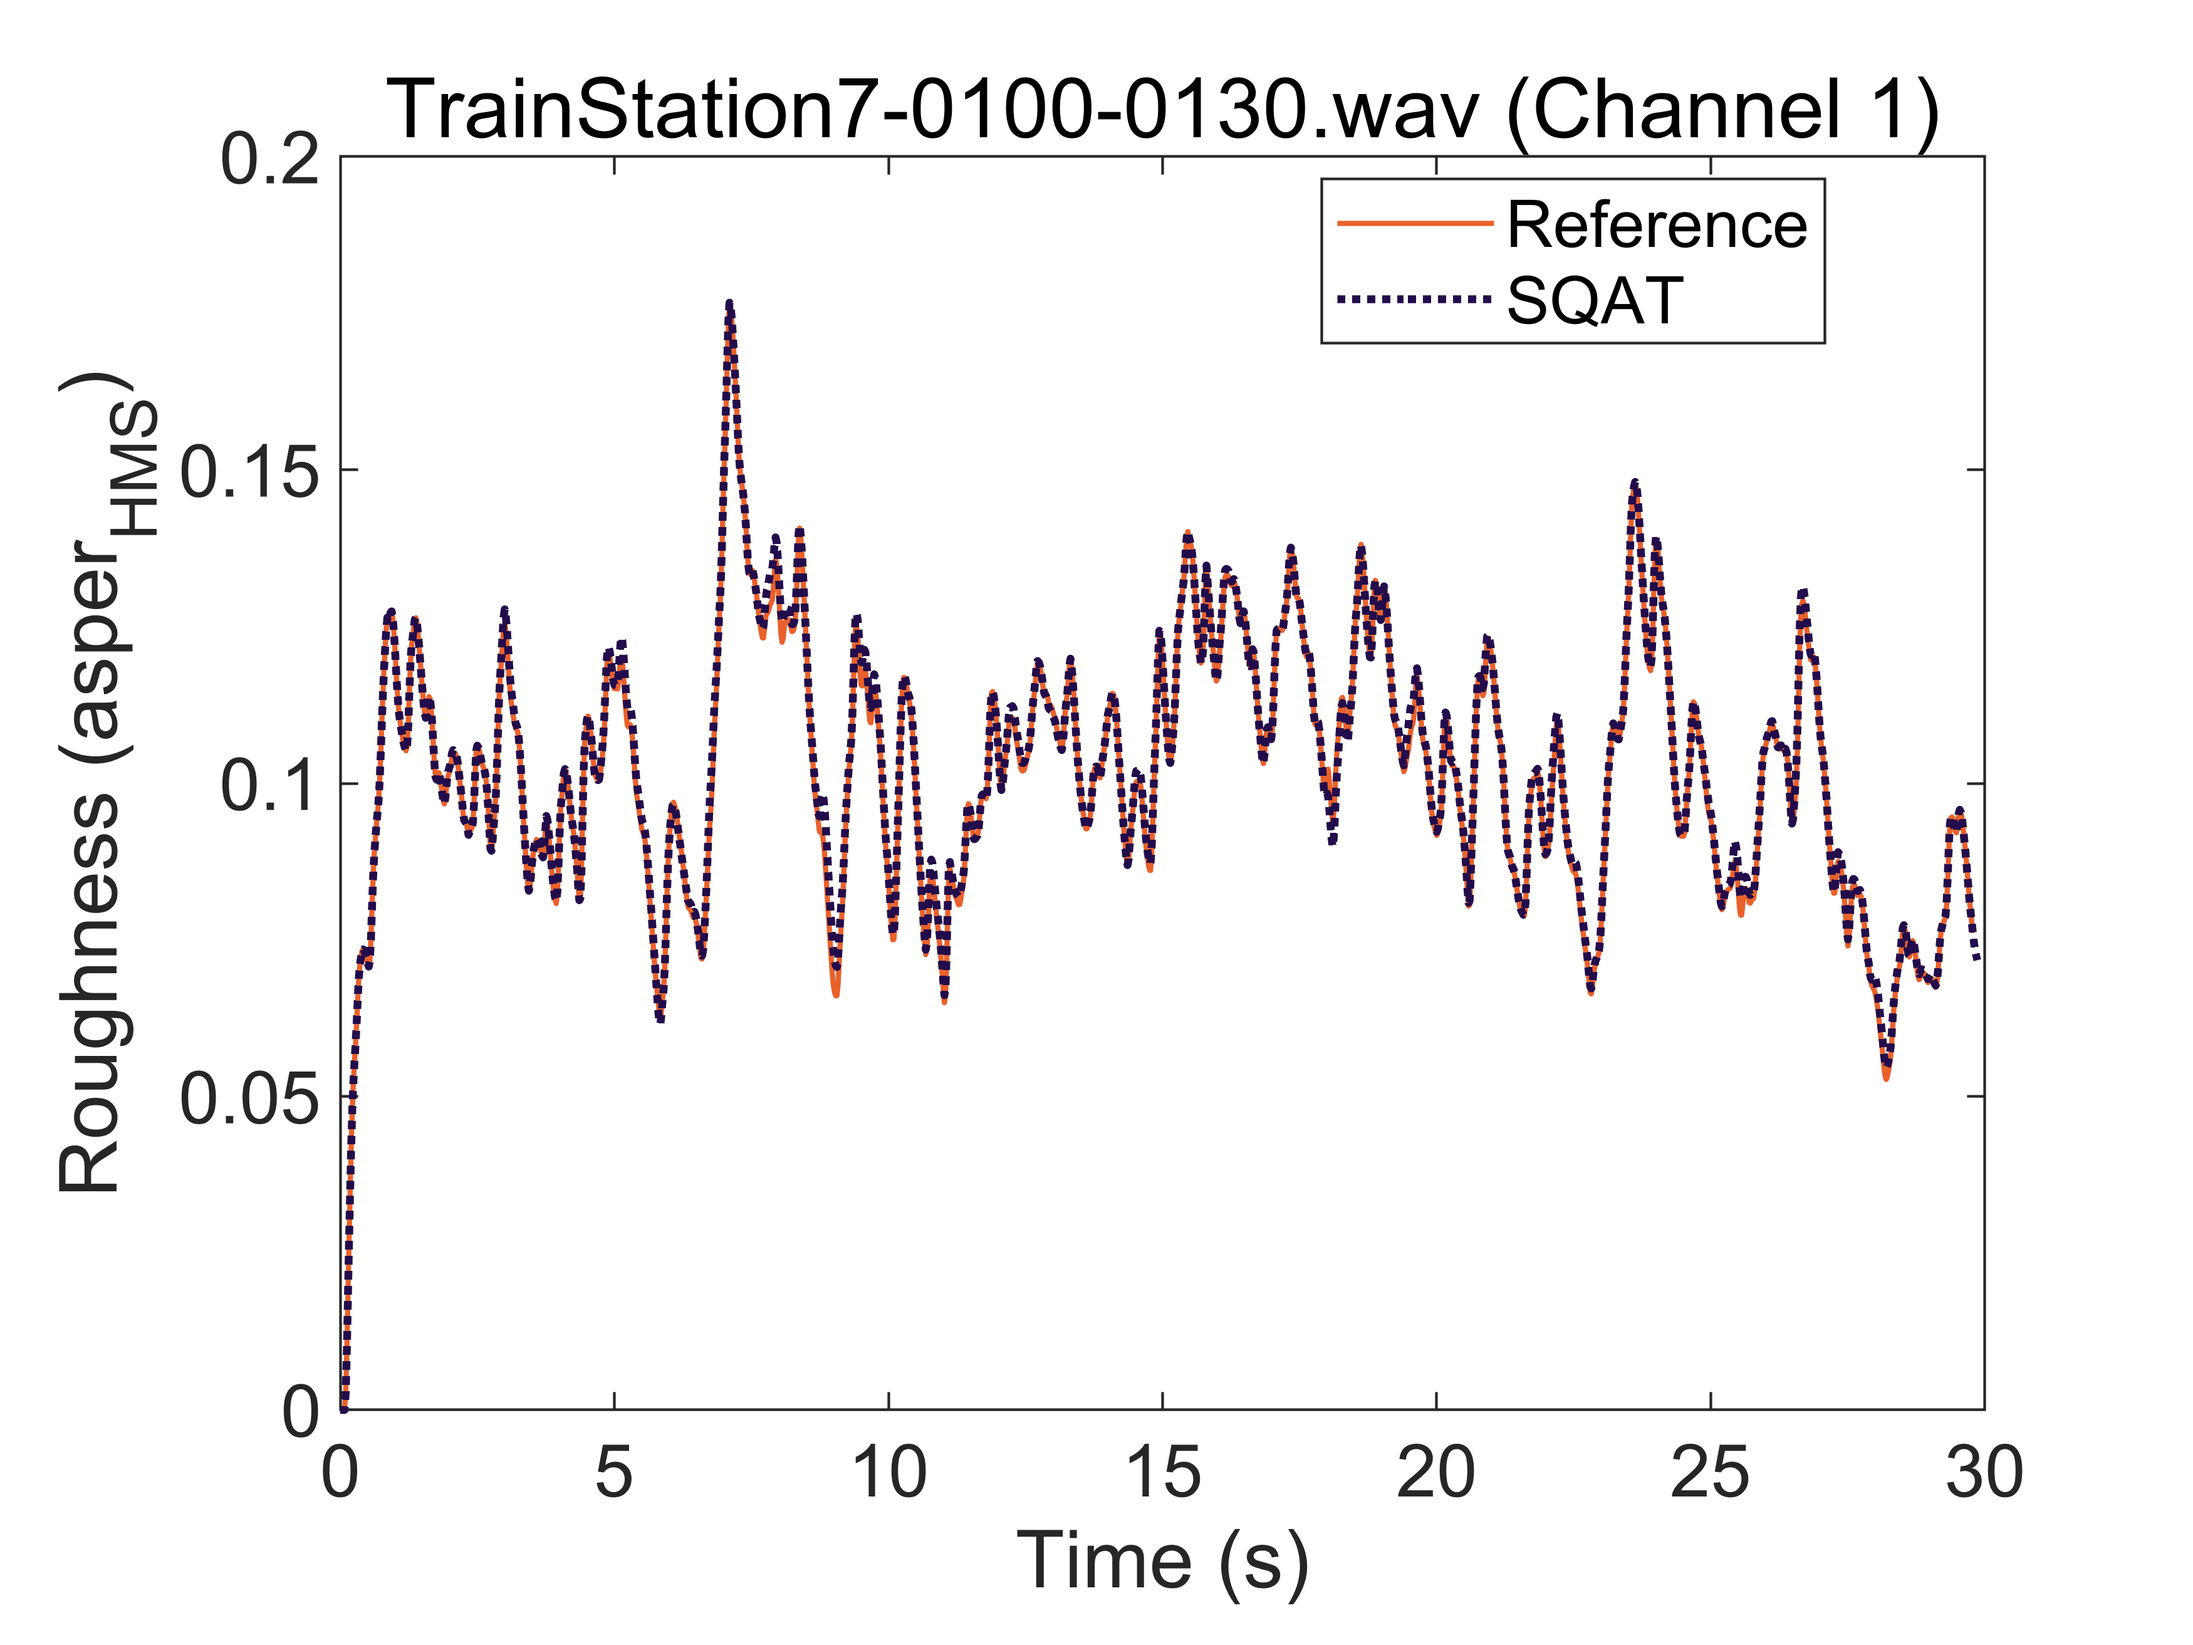
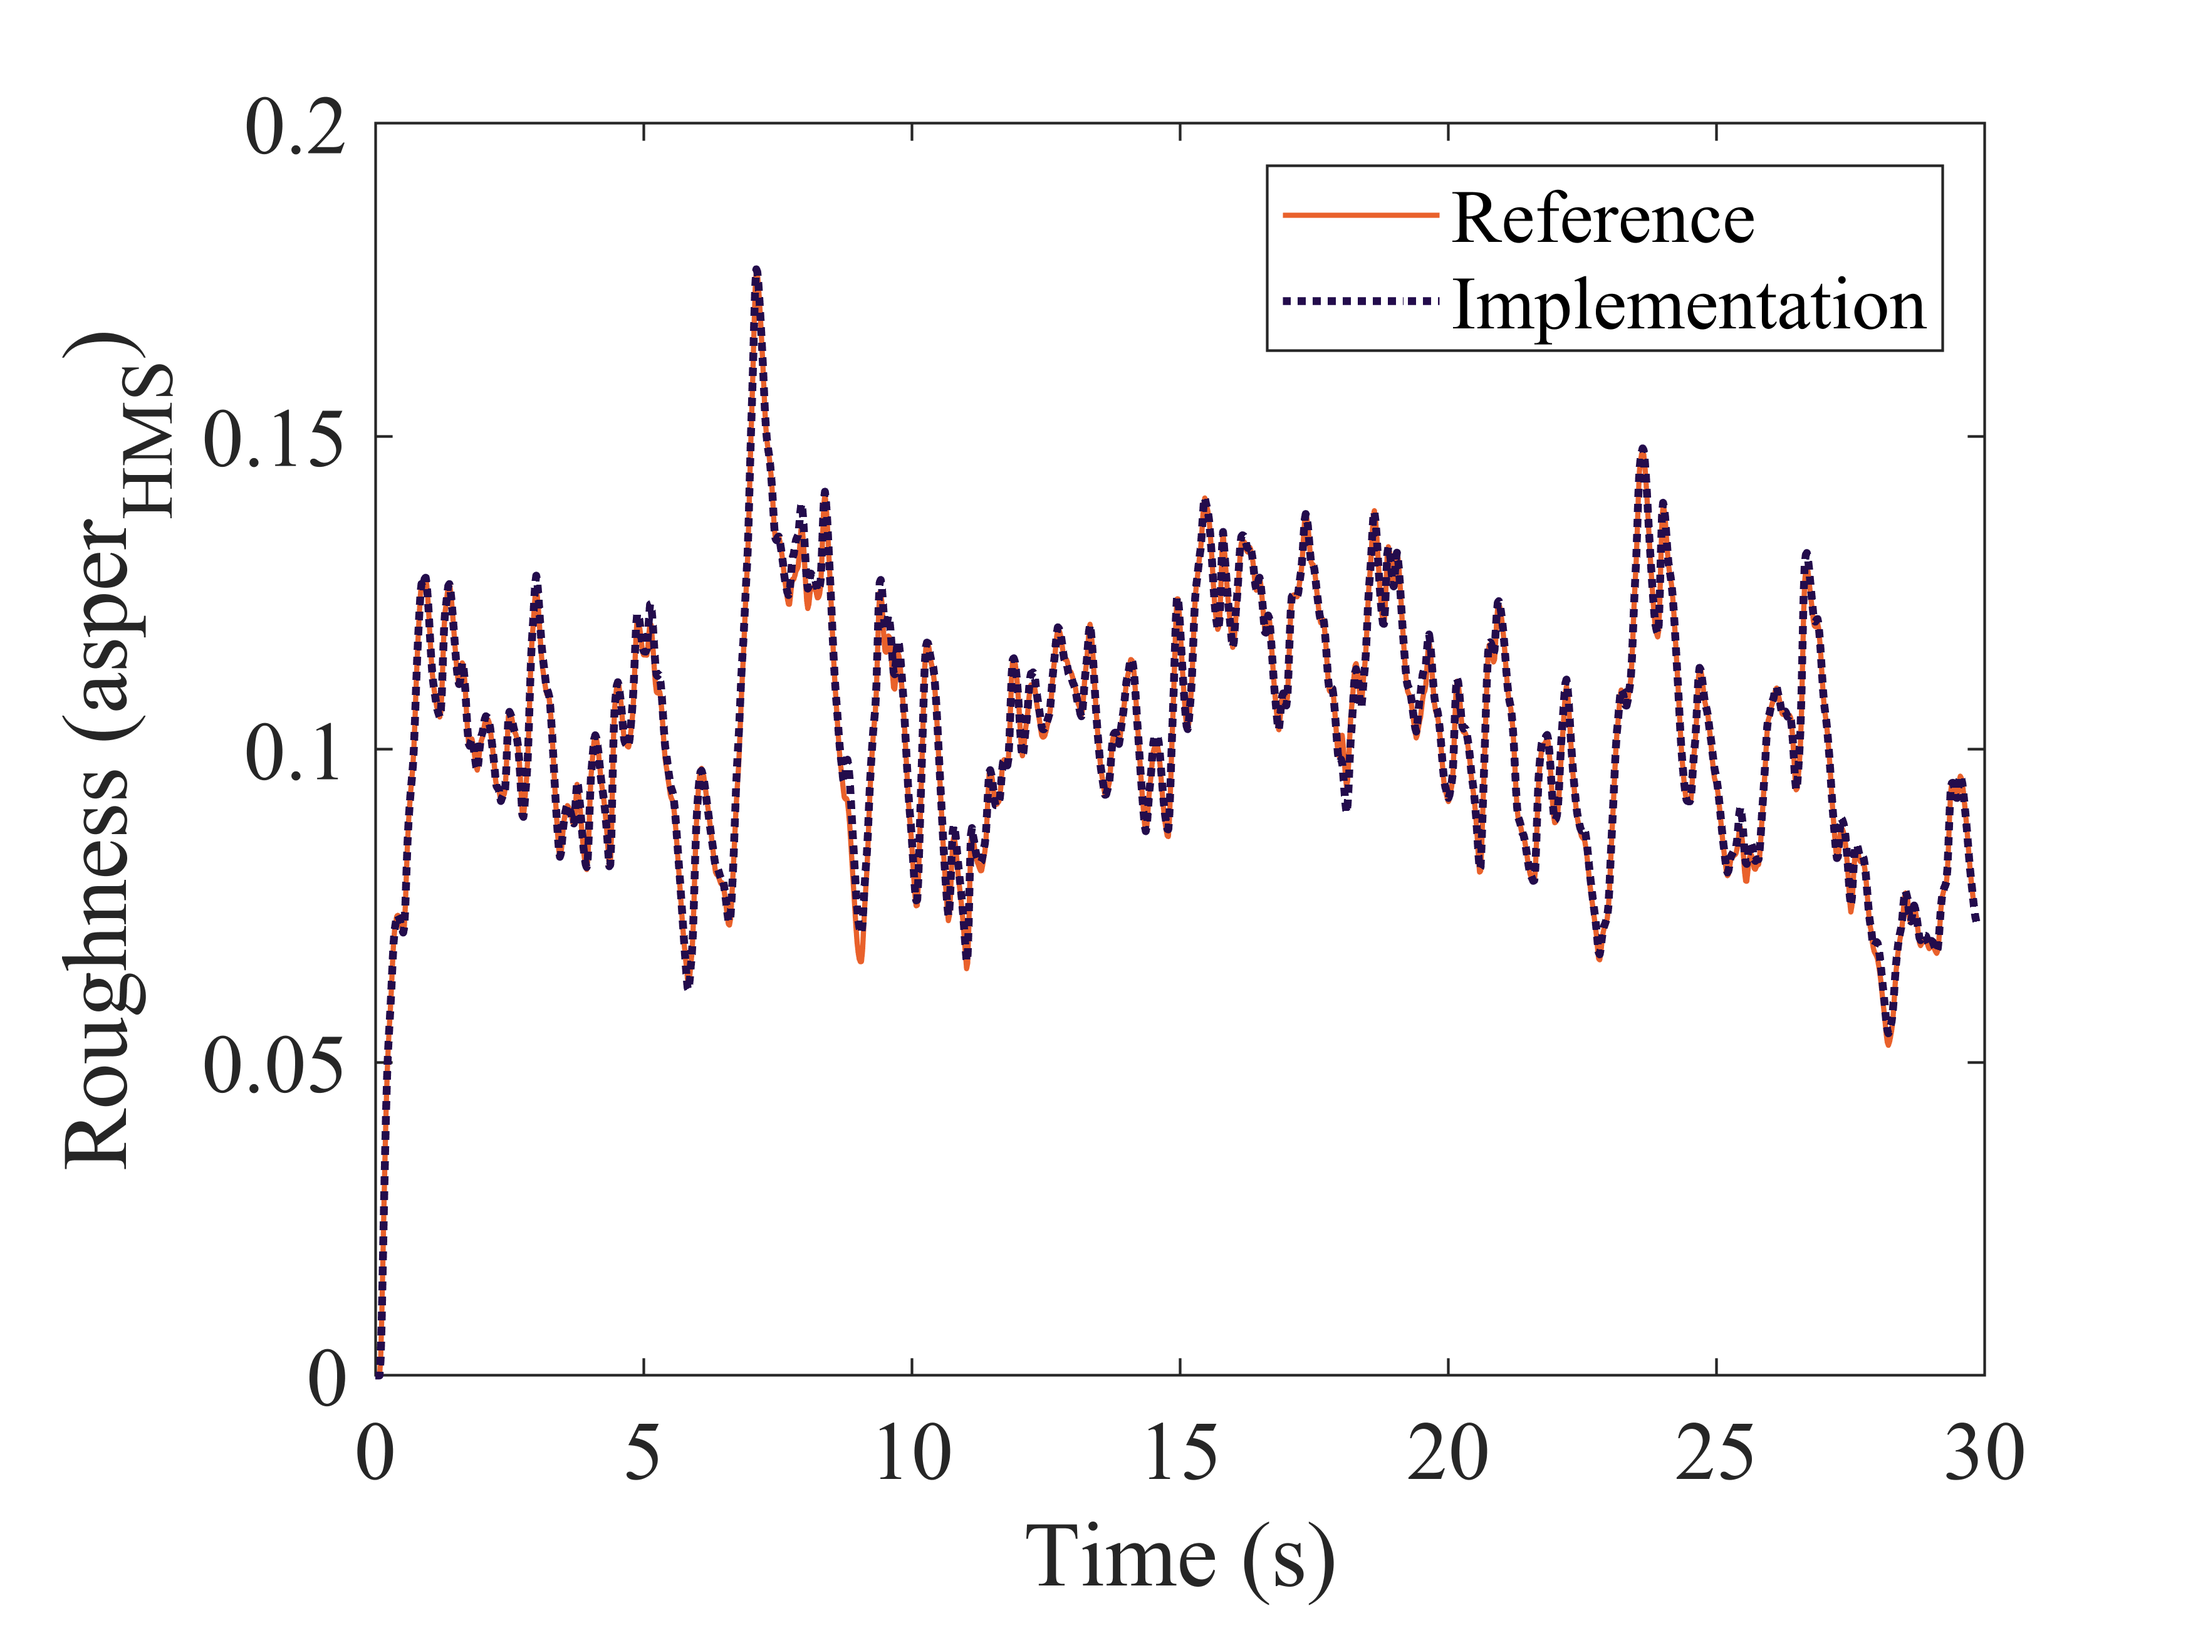
software_comparison
- add time-dependent specific plots
- layout changes

diff --git a/validation/Roughness_ECMA418_2/2_Roughness_ECMA418_2_software_comparison/Roughness_ECMA418_2_software_comparison.m b/validation/Roughness_ECMA418_2/2_Roughness_ECMA418_2_software_comparison/Roughness_ECMA418_2_software_comparison.m
@@ -147,6 +147,40 @@ label_fig = [wav_file '_singleValues_Roughness'];
 
 il_plt_singleValues(single_values, label_title, save_figs,  label_fig)
 
+%% plot - time-dependent specific loudness
+
+% plot -  commercial software (Channel 1)
+xAxis =  ref_results.Spec_TDep_channel_1(2:end,1) ; % time vector
+yAxis =  ref_results.Spec_TDep_channel_1(1, 2:end) ; % freq vector
+zAxis =  ref_results.Spec_TDep_channel_1(2:end, 2:end) ; % specific loudness
+label_fig = [wav_file ' (Channel 1)' '_tDep_Specific_Roughness_ref'];
+
+il_plt_spectrogram(xAxis, yAxis, zAxis', save_figs,  label_fig)
+
+% plot -  commercial software (Channel 2)
+xAxis =  ref_results.Spec_TDep_channel_2(2:end,1) ; % time vector
+yAxis =  ref_results.Spec_TDep_channel_2(1, 2:end) ; % freq vector
+zAxis =  ref_results.Spec_TDep_channel_2(2:end, 2:end) ; % specific loudness
+label_fig = [wav_file ' (Channel 2)' '_tDep_Specific_Roughness_ref'];
+
+il_plt_spectrogram(xAxis, yAxis, zAxis', save_figs,  label_fig)
+
+% plot -  implementation (Channel 1)
+xAxis =  OUT.timeOut; % time vector
+yAxis =  OUT.bandCentreFreqs; % freq vector
+zAxis =  OUT.specRoughness(:,:,1) ; % specific loudness
+label_fig = [wav_file ' (Channel 1)' '_tDep_Specific_Roughness_implementation'];
+
+il_plt_spectrogram(xAxis, yAxis, zAxis', save_figs,  label_fig)
+
+% plot -  implementation (Channel 2)
+% xAxis =  OUT.timeOut; % time vector
+% yAxis =  OUT.bandCentreFreqs; % freq vector
+zAxis =  OUT.specRoughness(:,:,2) ; % specific loudness
+label_fig = [wav_file ' (Channel 2)' '_tDep_Specific_Roughness_implementation'];
+
+il_plt_spectrogram(xAxis, yAxis, zAxis', save_figs,  label_fig)
+
 %% function / plot - time-varying quantity
 
 function il_plt_tDep(xRef, yRef, xSQAT, ySQAT, label_title, save_figs,  label_fig)
@@ -170,17 +204,17 @@ plot(xSQAT, ySQAT, ':', 'Color', cmap(cmap2, :), 'Linewidth', 1.5);
 xlabel('Time (s)');
 ylabel('Roughness (asper_{HMS})');
 
-legend('Reference', 'SQAT', 'Location', 'Best');
+legend('Reference', 'Implementation', 'Location', 'NE');
 set(gcf,'color','w');
 
 ylim([0 0.2]);
 
-title(label_title);
+% title(label_title);
 
-ax.FontName = 'Arial';
-ax.FontSize = 14;
-ax.Title.FontWeight = 'normal';
-ax.Title.FontSize = 16;
+ax.FontName = 'Times';
+ax.FontSize = 16;
+% ax.Title.FontWeight = 'normal';
+% ax.Title.FontSize = 16;
 
 if save_figs==1
     figures_dir = [fileparts(mfilename('fullpath')) filesep 'figs' filesep];
@@ -240,7 +274,7 @@ b = bar(barkAxis,...
     'FaceColor',  'none',...
     'LineWidth', 0.5, 'LineStyle', '-',...
     'BarWidth',0.5, ...
-    'DisplayName', "SQAT");
+    'DisplayName', "Implementation");
 
 xlabel( 'Critical band rate (Bark_{HMS})' );
 ylabel( 'Specific roughness (asper_{HMS}/Bark_{HMS})' );
@@ -250,21 +284,21 @@ xticks(barkAxis);
 
 ylim([0 0.015]);
 
-title(label_title);
+% title(label_title);
 
 ax.FontName = 'Arial';
 ax.FontSize = 14;
-ax.Title.FontWeight = 'normal';
-ax.Title.FontSize = 16;
+% ax.Title.FontWeight = 'normal';
+% ax.Title.FontSize = 16;
 
 yyaxis right;
 c = plot( barkAxis, ySQAT-yRef, 'k*-');
 
-ylabel( 'SQAT-Reference (sone_{HMS}/Bark_{HMS})' );
+ylabel( 'Implementation-Reference (asper_{HMS}/Bark_{HMS})' );
 
 ylim([-0.002 0.002]);
 
-legend([a b c], {'Reference', 'SQAT', 'SQAT - Reference'});
+legend([a b c], {'Reference', 'Implementation', 'Implementation - Reference'});
 
 set(h,'color','w');
 
@@ -292,7 +326,8 @@ end
 function il_plt_singleValues(single_values, label_title, save_figs,  label_fig)
 
 % Single values
-h  =figure('Position', [200, 200, 550, 550]);
+% h  =figure('Position', [200, 200, 550, 550]);
+h  =figure;
 set(h,'Units','Inches');
 pos = get(h,'Position');
 set(h,'PaperPositionMode','Auto','PaperUnits','Inches','PaperSize',[pos(3), pos(4)])
@@ -312,16 +347,68 @@ for bb = 1:length(br)
         'VerticalAlignment','bottom', 'FontSize', 12)
 end
 
-ylim([0 round(max(single_values(1))+2)]);
+ylim([0 round(max(single_values(1))+1)]);
 
-legend('Reference', 'SQAT', 'Location', 'NE');
+legend('Reference', 'Implementation', 'Location', 'NE');
 
-t=title(label_title);
+% t=title(label_title);
 
-t.FontWeight = 'normal';
-t.FontSize = 16;
+% t.FontWeight = 'normal';
+% t.FontSize = 16;
 
 set(gcf,'color','w');
+
+if save_figs==1
+    figures_dir = [fileparts(mfilename('fullpath')) filesep 'figs' filesep];
+    if ~exist(figures_dir,'dir')
+        mkdir(figures_dir);
+    end
+    figname_short = label_fig;
+    figname_out = [figures_dir figname_short];
+
+    resolution = '-r600'; % Default resolution of 600 DPI
+
+    % saveas(gcf,figname_out, 'fig');
+    % print( gcf, figname_out, '-dpdf', resolution );
+    print( gcf, figname_out,  '-dpng', resolution );
+
+    fprintf('\n%s.m: figure %s was saved on disk\n\t(full name: %s)\n',mfilename,figname_short,figname_out);
+end
+
+end
+
+%% function / plot spectrogram
+
+function il_plt_spectrogram(xAxis, yAxis, zAxis, save_figs,  label_fig)
+
+h  =figure;
+set(h,'Units','Inches');
+pos = get(h,'Position');
+set(h,'PaperPositionMode','Auto','PaperUnits','Inches','PaperSize',[pos(3), pos(4)])
+movegui(h, 'center');
+
+
+[xx,yy] = meshgrid(xAxis, yAxis);
+xx(1) = 0;  % truncating first idx of time to zero (just a visual thing because ref results may not start exactly on zero)
+pcolor(xx, yy, zAxis);
+shading interp; colorbar; axis tight;
+cMap  = load('cmap_inferno.txt'); colormap(cMap);
+
+ax = gca;
+ax.YTick = [63, 125, 250, 500, 1e3, 2e3, 4e3, 8e3, 16e3];
+ax.YTickLabel = ["63", "125", "250", "500", "1k", "2k", "4k","8k", "16k"];
+ax.YScale = 'log';
+ax.YLabel.String = 'Frequency (Hz)';
+ax.XLabel.String = 'Time (s)';
+
+ h = colorbar;
+ zString = 'Specific roughness (asper_{HMS}/Bark_{HMS})';
+ set(get(h,'label'),'string', zString);
+
+ box on
+ set(gca,'layer','top');
+
+ set(gcf,'color','w');
 
 if save_figs==1
     figures_dir = [fileparts(mfilename('fullpath')) filesep 'figs' filesep];

diff --git a/validation/Loudness_ECMA418_2/2_Loudness_ECMA418_2_software_comparison/Loudness_ECMA418_2_software_comparison.m b/validation/Loudness_ECMA418_2/2_Loudness_ECMA418_2_software_comparison/Loudness_ECMA418_2_software_comparison.m
@@ -277,7 +277,7 @@ b =bar(barkAxis,...
     'FaceColor',  'none',...
     'LineWidth', 0.5, 'LineStyle', '-',...
     'BarWidth',0.5, ...
-    'DisplayName', "SQAT");
+    'DisplayName', "Implementation");
 
 xlabel( 'Critical band rate (Bark_{HMS})' );
 ylabel( 'Specific loudness (sone_{HMS}/Bark_{HMS})' );

diff --git a/validation/Tonality_ECMA418_2/Tonality_ECMA418_2_software_comparison/Tonality_ECMA418_2_software_comparison.m b/validation/Tonality_ECMA418_2/Tonality_ECMA418_2_software_comparison/Tonality_ECMA418_2_software_comparison.m
@@ -245,7 +245,7 @@ b = bar(barkAxis,...
     'FaceColor',  'none',...
     'LineWidth', 0.5, 'LineStyle', '-',...
     'BarWidth',0.5, ...
-    'DisplayName', "SQAT");
+    'DisplayName', "Implementation");
 
 xlabel( 'Critical band rate (Bark_{HMS})' );
 ylabel( 'Specific tonality (tu_{HMS}/Bark_{HMS})' );

diff --git a/validation/Roughness_ECMA418_2/2_Roughness_ECMA418_2_software_comparison/README.md b/validation/Roughness_ECMA418_2/2_Roughness_ECMA418_2_software_comparison/README.md
@@ -1,6 +1,6 @@
 # About this code 
 
-The `Roughness_ECMA418_2_software_comparison.m` code compares roughness results (ECMA-418-2 model [1]) obtained in a commercial software and using the implementation in SQAT (see `Roughness_ECMA418_2.m` code [here](../../../psychoacoustic_metrics/Roughness_ECMA418_2/Roughness_ECMA418_2.m)). To perform this study, a binaural file recorded in a 'train station' environment is used. The signal 'TrainStation.7.wav' was extracted from the EigenScape database [(link)](https://zenodo.org/doi/10.5281/zenodo.1012808), and trimmed between 01m00s and 01m30s. The EigenScape database, which is described by 
+The `Roughness_ECMA418_2_software_comparison.m` code compares roughness results (ECMA-418-2 model [1]) obtained using a commercial software (ref. results) and using the implementation in SQAT (see `Roughness_ECMA418_2.m` code [here](../../../psychoacoustic_metrics/Roughness_ECMA418_2/Roughness_ECMA418_2.m)). To perform this study, a binaural file recorded in a 'train station' environment is used. The signal 'TrainStation.7.wav' was extracted from the EigenScape database [(link)](https://zenodo.org/doi/10.5281/zenodo.1012808), and trimmed between 01m00s and 01m30s. The EigenScape database, which is described by 
 Green et al. [2], is licenced under Creative Commons Attribution 4.0.   
 
 <!-- Artemis Suite 15.7-->
@@ -12,15 +12,38 @@ The following sound file is required: `ExStereo_TrainStation7-0100-0130.wav`, wh
 
 ## Time-dependent roughness
 
-<img src='figs/TrainStation7-0100-0130 (Channel 1)_TDep_Roughness.png' width=500> <img src='figs/TrainStation7-0100-0130 (Channel 2)_TDep_Roughness.png' width=500> <img src='figs/TrainStation7-0100-0130 (Combined binaural)_TDep_Roughness.png' width=500>
+| Channel 1       | Channel 2          |
+| -------------- | -------------- |
+| <img src='figs/TrainStation7-0100-0130 (Channel 1)_TDep_Roughness.png' width=500>  | <img src='figs/TrainStation7-0100-0130 (Channel 2)_TDep_Roughness.png' width=500>  |
+
+Combined binaural |  
+:-------------------------:| 
+| <img src='figs/TrainStation7-0100-0130 (Combined binaural)_TDep_Roughness.png' width=500>|  
+    
 
 ## Time-averaged specific roughness
 
-<img src='figs/TrainStation7-0100-0130 (Channel 1)_avgSpecific_Roughness.png' width=1000> 
+Channel 1  |  
+:-------------------------:| 
+| <img src='figs/TrainStation7-0100-0130 (Channel 1)_avgSpecific_Roughness.png' width=1000>  | 
 
-<img src='figs/TrainStation7-0100-0130 (Channel 2)_avgSpecific_Roughness.png' width=1000> 
+Channel 2 |  
+:-------------------------:| 
+| <img src='figs/TrainStation7-0100-0130 (Channel 2)_avgSpecific_Roughness.png' width=1000>  | 
 
-<img src='figs/TrainStation7-0100-0130 (Combined binaural)_avgSpecific_Roughness.png' width=1000>
+Combined binaural |  
+:-------------------------:| 
+| <img src='figs/TrainStation7-0100-0130 (Combined binaural)_avgSpecific_Roughness.png' width=1000> | 
+ 
+## Time-dependent specific roughness
+
+| Reference (channel 1)       | Implementation (channel 1)          |
+| -------------- | -------------- |
+| <img src='figs/TrainStation7-0100-0130 (Channel 1)_tDep_Specific_Tonality_ref.png' width=500>  | <img src='figs/TrainStation7-0100-0130 (Channel 1)_tDep_Specific_Tonality_implementation.png' width=500>   |
+
+|   Reference (channel 2)       | Implementation (channel 2)          |
+| -------------- | -------------- |
+| <img src='figs/TrainStation7-0100-0130 (Channel 2)_tDep_Specific_Tonality_ref.png' width=500>  | <img src='figs/TrainStation7-0100-0130 (Channel 2)_tDep_Specific_Tonality_implementation.png' width=500>  |
 
 ## Overall roughness
 
@@ -33,7 +56,7 @@ The following sound file is required: `ExStereo_TrainStation7-0100-0130.wav`, wh
 
 
 # Log
-Last checked by: Gil Felix Greco (10.02.2025)
+Last checked: Gil Felix Greco (12.02.2025)
 
 
 

diff --git a/validation/Loudness_ECMA418_2/2_Loudness_ECMA418_2_software_comparison/README.md b/validation/Loudness_ECMA418_2/2_Loudness_ECMA418_2_software_comparison/README.md
@@ -37,6 +37,7 @@ Combined binaural |
 :-------------------------:| 
 | <img src='figs/TrainStation7-0100-0130 (Combined binaural)_avgSpecific_Loudness.png' width=1000>| 
 
+
 ## Time-dependent specific loudness
 
 | Reference (channel 1)       | Implementation (channel 1)          |
